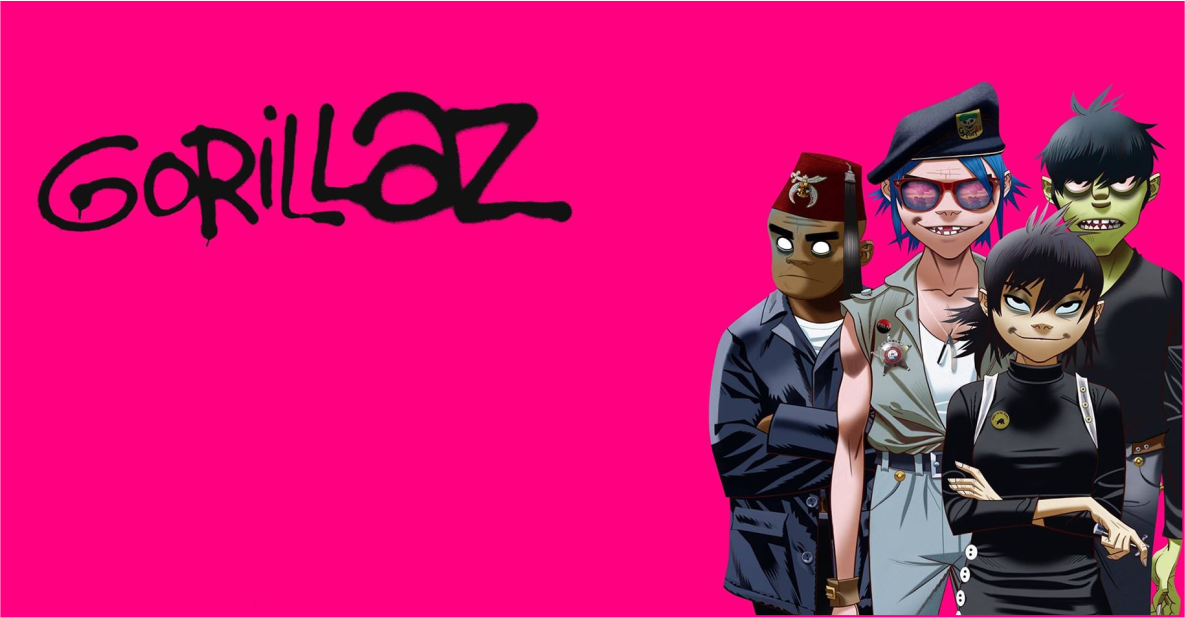
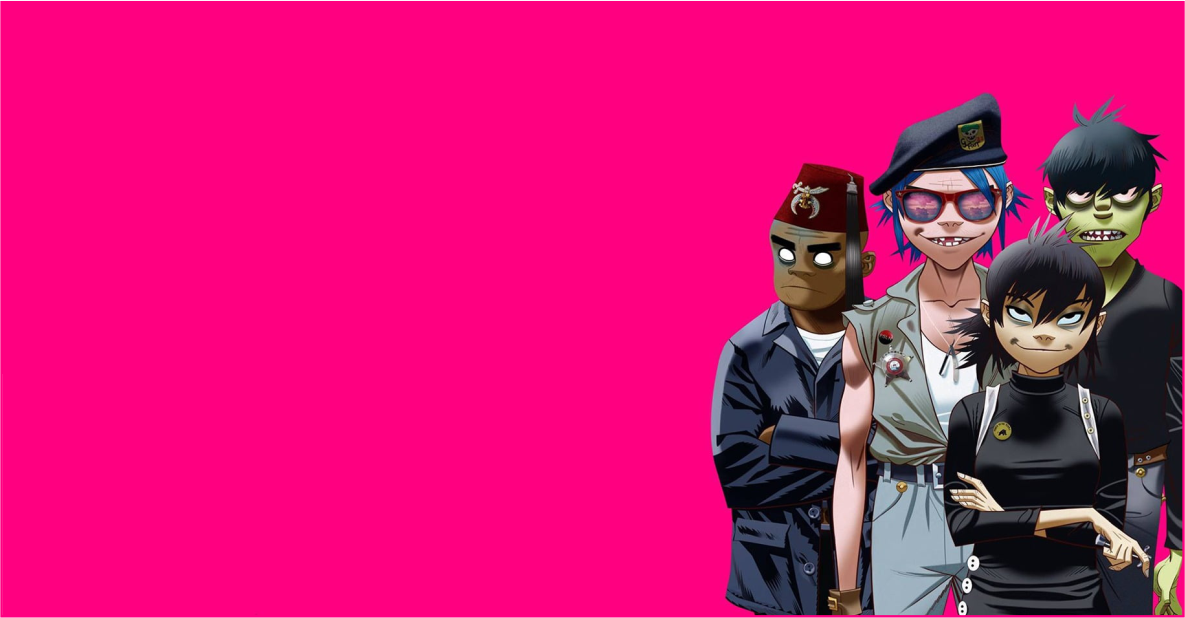
Alterações para mobile

Changed region(s): [[0.5932, 0.123, 0.9992, 1.0], [0.0312, 0.123, 0.4996, 0.3997]]

diff --git a/css/style.css b/css/style.css
@@ -74,7 +74,7 @@
 /* Formatação do h1 da div info */
 .info h1{
 	font-family: Gorillaz;
-	font-size: 90pt;
+	font-size: 110pt;
     font-weight: normal;
 	padding: 10px;
 	color: black;
@@ -187,9 +187,8 @@
 /* Formatação da section datas*/
 .datas{
     width: 100vw;
-    height: 100vh;
-    padding: 100px 0px;
-    margin: 0;
+    height: auto;
+    padding: 150px 0px;
     background-image: url(../imagens/photo3.png);
 	background-repeat: no-repeat;
 	background-position: center;
@@ -206,9 +205,8 @@
 /* Formatação da section tour_dates*/
 .tour_dates{ 
     width: 100vw;
-    height: 100vh;
+    height: auto;
     padding: 10px;
-    margin: 0;
     background-image: url(../imagens/photo5.png);
 	background-repeat: no-repeat;
 	background-position: center;
@@ -220,8 +218,8 @@
     float: left;
     width: 60vw;
     height: auto;
-    padding: 20px;
-    margin: 250px 0px;
+    padding: 30px;
+    margin: 200px 0px;
 }
 
 
@@ -229,7 +227,7 @@
 .tour_dates_info h1{
     font-family: Geom;
     font-size: 50pt;
-    padding: 10px;
+    padding: 20px;
     color: black;
     letter-spacing: 1px;
     font-weight: normal;
@@ -262,7 +260,7 @@
     height: auto;
     padding: 10px;
     width: 100vw;
-    height: 100vh;
+    height: auto;
     padding: 10px;
     margin: 0;
     background-image: url(../imagens/photo6.png);
@@ -275,10 +273,10 @@
 .band p{
     width: 60vw;
     font-family: Geo;
-    font-size: 25pt;
+    font-size: 15pt;
     text-align: justify;
     padding: 20px;
-    margin: 80px 0px;
+    margin: 150px 15px;
     float: left;
     opacity: 0.3;
 }
@@ -291,6 +289,11 @@
         padding: 10px 0px;
         background-image: url(../imagens/photo1_mobile_2.png);
         background-position: right;
+    }
+
+    /* Formatação do h1 da div info */
+    .info h1{
+        font-size: 90pt;
     }
 
     /* Formatação da div info */

diff --git a/index.html b/index.html
@@ -43,8 +43,8 @@
         </section>
         <section class="tour_dates">
             <div class="tour_dates_info">
-                <h1>Tour Dates and Tickets</h1>
-                <button type="button">Check It Out</button>
+                <h1 data-aos="fade-down-right">Tour Dates and Tickets</h1>
+                <button type="button" data-aos="flip-left">Check It Out</button>
             </div>
         </section>
         <section class="band">
